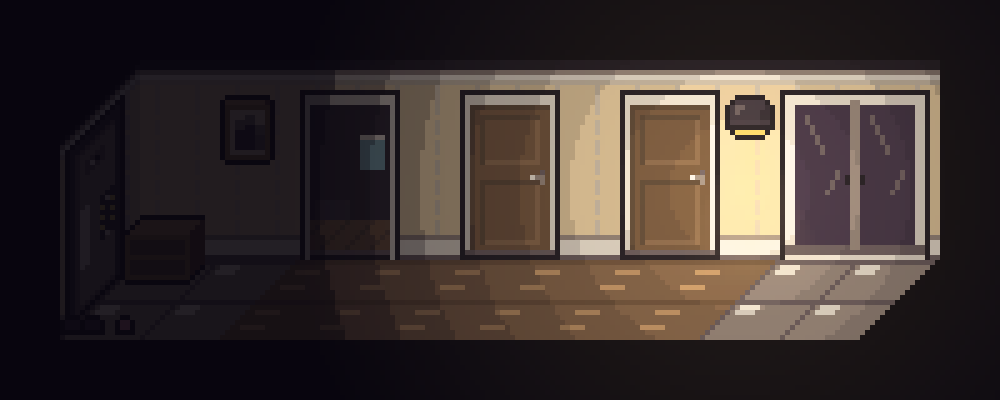
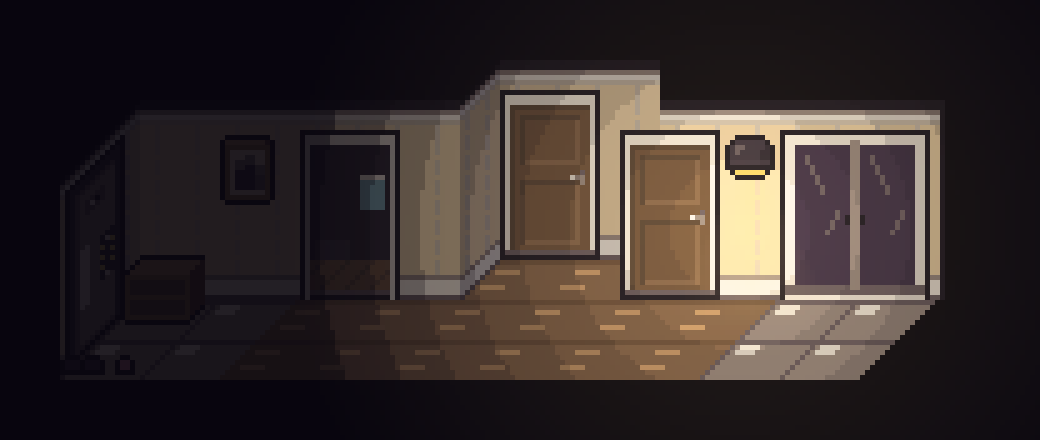
Corridor recess (alcove) for child-room door; door lintel on front-wall doorways; overview image
Claude-Session: https://claude.ai/code/session_01FPZSaKiVNU2zED737yZX4w

Changed region(s): [[0.124, 0.15, 0.961, 0.87], [0.403, 0.78, 0.434, 0.81], [0.31, 0.78, 0.341, 0.81]]

diff --git a/tools/render_room.py b/tools/render_room.py
@@ -34,21 +34,24 @@ def render_room(path, scale=1):
     ncols, nrows = c1 - c0 + 1, len(floor_rows)
     W, D = ncols * T, nrows * T
     sky = int(m.get('extra', {}).get('sky_rows', '0')); wallh = WALLH + 16 * sky      # 방지대 위에 하늘 줄을 더 쌓는다
-    CW, CH = int(PAD * 2 + W + SK * D), int(PAD * 2 + wallh + SS * D)
-    X0, Y0 = PAD, PAD + wallh + SS * D
+    rc = m.get('extra', {}).get('recess'); RD = T if rc else 0                  # 뒷벽이 한 칸 안쪽으로 패인 부분(알코브): `recess: 시작열 끝열`
+    ra, rb = [int(v) for v in rc.split()] if rc else (0, -1)
+    CW, CH = int(PAD * 2 + W + SK * (D + RD)), int(PAD * 2 + wallh + SS * (D + RD))
+    X0, Y0 = PAD, PAD + wallh + SS * (D + RD)
     img = Image.new('RGBA', (CW, CH), (0, 0, 0, 0)); px = img.load()
     tex = lambda name: lib[name].load()
     def get(name, x, y): return tex(name)[x % 16, y % 16]
     extra = m.get('extra', {}); kind = extra.get('left_wall', 'kr')
     names = {'top': f'wall_top_{kind}', 'mid': f'wall_{kind}', 'base': f'wall_base_{kind}'}
     # 바닥: 화면 한 점마다 (x, 깊이 d)를 거꾸로 계산해 타일 무늬를 찍는다
-    for Y in range(int(Y0 - SS * D), int(Y0) + 1):
+    for Y in range(int(Y0 - SS * (D + RD)), int(Y0) + 1):
         d = (Y0 - Y - .5) / SS
-        if not (0 <= d < D): continue
-        for X in range(int(X0), int(X0 + W + SK * D) + 1):
+        if not (0 <= d < D + RD): continue
+        for X in range(int(X0), int(X0 + W + SK * (D + RD)) + 1):
             x = X + .5 - X0 - SK * d
             if not (0 <= x < W): continue
-            fr = nrows - 1 - int(d // T); ch = rows[floor_rows[fr]][c0 + int(x // T)]
+            if d >= D and not (ra * T <= x < (rb + 1) * T): continue                # 알코브 바닥만 더 안쪽까지
+            fr = max(0, nrows - 1 - int(d // T)); ch = rows[floor_rows[fr]][c0 + int(x // T)]
             if not tile(ch).startswith('floor'): continue
             px[X, Y] = get(tile(ch), int(x), 15 - int(d % T))
     # 왼쪽 벽
@@ -62,8 +65,9 @@ def render_room(path, scale=1):
             r, g, b, a = get(nm, int(d), ty); px[X, Y] = (int(r * .82), int(g * .82), int(b * .86), a)
     # 뒷벽
     by = Y0 - SS * D
-    for X in range(int(X0 + SK * D), int(X0 + SK * D + W)):
+    for X in range(int(X0 + SK * D), int(X0 + SK * D + W + 1)):
         x = X + .5 - X0 - SK * D; c = c0 + int(x // T)
+        if ra <= c - c0 <= rb: continue                                   # 알코브 열은 아래에서 더 안쪽에 그린다
         for Y in range(int(by - wallh), int(by)):
             z = by - (Y + .5)
             if z < 16: nm, ty = tile(rows[base_row][c]), 15 - int(z)
@@ -71,6 +75,24 @@ def render_room(path, scale=1):
             elif sky and tile(rows[top_row][c]).startswith('wall_rail_top_'): nm, ty = 'wall_rail_top_' + 'abcdef'[(c + 2 * int((z - 32) // 16)) % 6], 15 - int((z - 32) % 16)
             else: nm, ty = tile(rows[top_row][c]), int(wallh - 1 - z)
             if nm in lib: px[X, Y] = get(nm, int(x), ty)
+    if rc:
+        by2 = Y0 - SS * (D + RD)                                         # 알코브: 한 칸 안쪽의 뒷벽 + 왼쪽 옆벽
+        for X in range(int(X0 + SK * (D + RD) + ra * T), int(X0 + SK * (D + RD) + (rb + 1) * T)):
+            x = X + .5 - X0 - SK * (D + RD); c = c0 + int(x // T)
+            for Y in range(int(by2 - wallh), int(by2)):
+                z = by2 - (Y + .5)
+                if z < 16: nm, ty = tile(rows[base_row][c]), 15 - int(z)
+                elif z < 32: nm, ty = tile(rows[mid_row][c]), 15 - int(z - 16)
+                else: nm, ty = tile(rows[top_row][c]), int(wallh - 1 - z)
+                r_, g_, b_, a_ = get(nm, int(x), ty); px[X, Y] = (int(r_ * .9), int(g_ * .9), int(b_ * .92), a_)       # 안쪽이라 조금 어둡게
+        for X in range(int(X0 + ra * T + SK * D), int(X0 + ra * T + SK * (D + RD)) + 1):
+            d = (X + .5 - X0 - ra * T) / SK
+            if not (D <= d < D + RD): continue
+            for Y in range(int(Y0 - SS * (D + RD) - wallh), int(Y0 - SS * D) + 1):
+                z = (Y0 - SS * d) - (Y + .5)
+                if not (0 <= z < wallh): continue
+                nm, ty = (names['base'], 15 - int(z)) if z < 16 else (names['mid'], 15 - int(z - 16)) if z < 32 else (names['top'], int(wallh - 1 - z))
+                r_, g_, b_, a_ = get(nm, int(d), ty); px[X, Y] = (int(r_ * .72), int(g_ * .72), int(b_ * .78), a_)
     emitters = []
     def stamp(name, left, bottom):                           # 정면 스프라이트 (왼쪽 아래 모서리 기준)
         sp = lib[name]; img.alpha_composite(sp, (int(round(left)), int(round(bottom - sp.height))))
@@ -80,8 +102,9 @@ def render_room(path, scale=1):
     for r_i, zb in ((base_row, 0), (mid_row, 16), (top_row, 32)):
         for c in range(c0, c1 + 1):
             for obj in leg[rows[r_i][c]][1]:
-                nm, _, lift = obj.partition('^'); sp_ = stamp(nm, X0 + SK * D + (c - c0) * T, by - zb - int(lift or 0))
-                if nm == 'wall_light_kr': cone(img, X0 + SK * D + (c - c0) * T + 10, by - zb - int(lift or 0), 30)
+                inr = ra <= c - c0 <= rb; dd = D + RD if inr else D
+                nm, _, lift = obj.partition('^'); sp_ = stamp(nm, X0 + SK * dd + (c - c0) * T, Y0 - SS * dd - zb - int(lift or 0))
+                if nm == 'wall_light_kr': cone(img, X0 + SK * dd + (c - c0) * T + 10, Y0 - SS * dd - zb - int(lift or 0), 30)
     # 왼쪽 벽의 사물: 세로 선은 그대로, 깊이 방향은 SK 배로 눌리고 SS 만큼 올라가는 기울임
     for tok in extra.get('left_add', '').split():
         nm, at = tok.split('@'); dc, _, lift = at.partition('^'); d0 = int(float(dc) * T); sp = lib[nm]
@@ -131,6 +154,7 @@ def render_room(path, scale=1):
             X = int(X0 + xx)
             in_door = dx0 <= xx < dx0 + dw
             post = dx0 <= xx < dx0 + 2 or dx0 + dw - 2 <= xx < dx0 + dw
+            lintel = dx0 <= xx < dx0 + dw and not post
             top = POST if post else (0 if in_door else LOW)
             for z in range(top):
                 Y = int(Y0 + 1 - 1 - z) - 0
@@ -138,6 +162,8 @@ def render_room(path, scale=1):
                 elif z == top - 1: col = (156, 143, 138, 255)
                 else: col = get(f'wall_base_{fk}', xx, 15 - z)
                 px[X, Y] = col
+            if lintel:
+                for z in range(POST - 3, POST): px[X, int(Y0) - z] = (247, 245, 240, 255) if z < POST - 1 else (26, 22, 32, 255)       # 문틀 윗가로대
             if in_door and not post:                        # 문턱과 발판
                 for z in range(2): px[X, int(Y0) - z] = (115, 86, 62, 255) if z == 0 else (156, 143, 138, 255)
         glow = extra.get('front_glow')

diff --git a/tools/render_maps.py b/tools/render_maps.py
@@ -43,7 +43,7 @@ def load_map(path):
             m['tone'] = tuple(int(v) for v in line[5:].split())
         elif line.startswith('ambient:'):
             m['ambient'] = float(line[8:])
-        elif line.startswith(('view:', 'left_wall:', 'left_add:', 'sky_rows:', 'front_wall:', 'front_door:', 'front_glow:')) and section is None:
+        elif line.startswith(('view:', 'left_wall:', 'left_add:', 'sky_rows:', 'front_wall:', 'front_door:', 'front_glow:', 'recess:')) and section is None:
             m.setdefault('extra', {})[line.split(':')[0]] = line.split(':', 1)[1].strip()      # 사선 시점 방(render_room.py)용 추가 줄
         elif line.startswith('dream:'):
             m['dream'] = dict(p.split('=') for p in line[6:].split())
